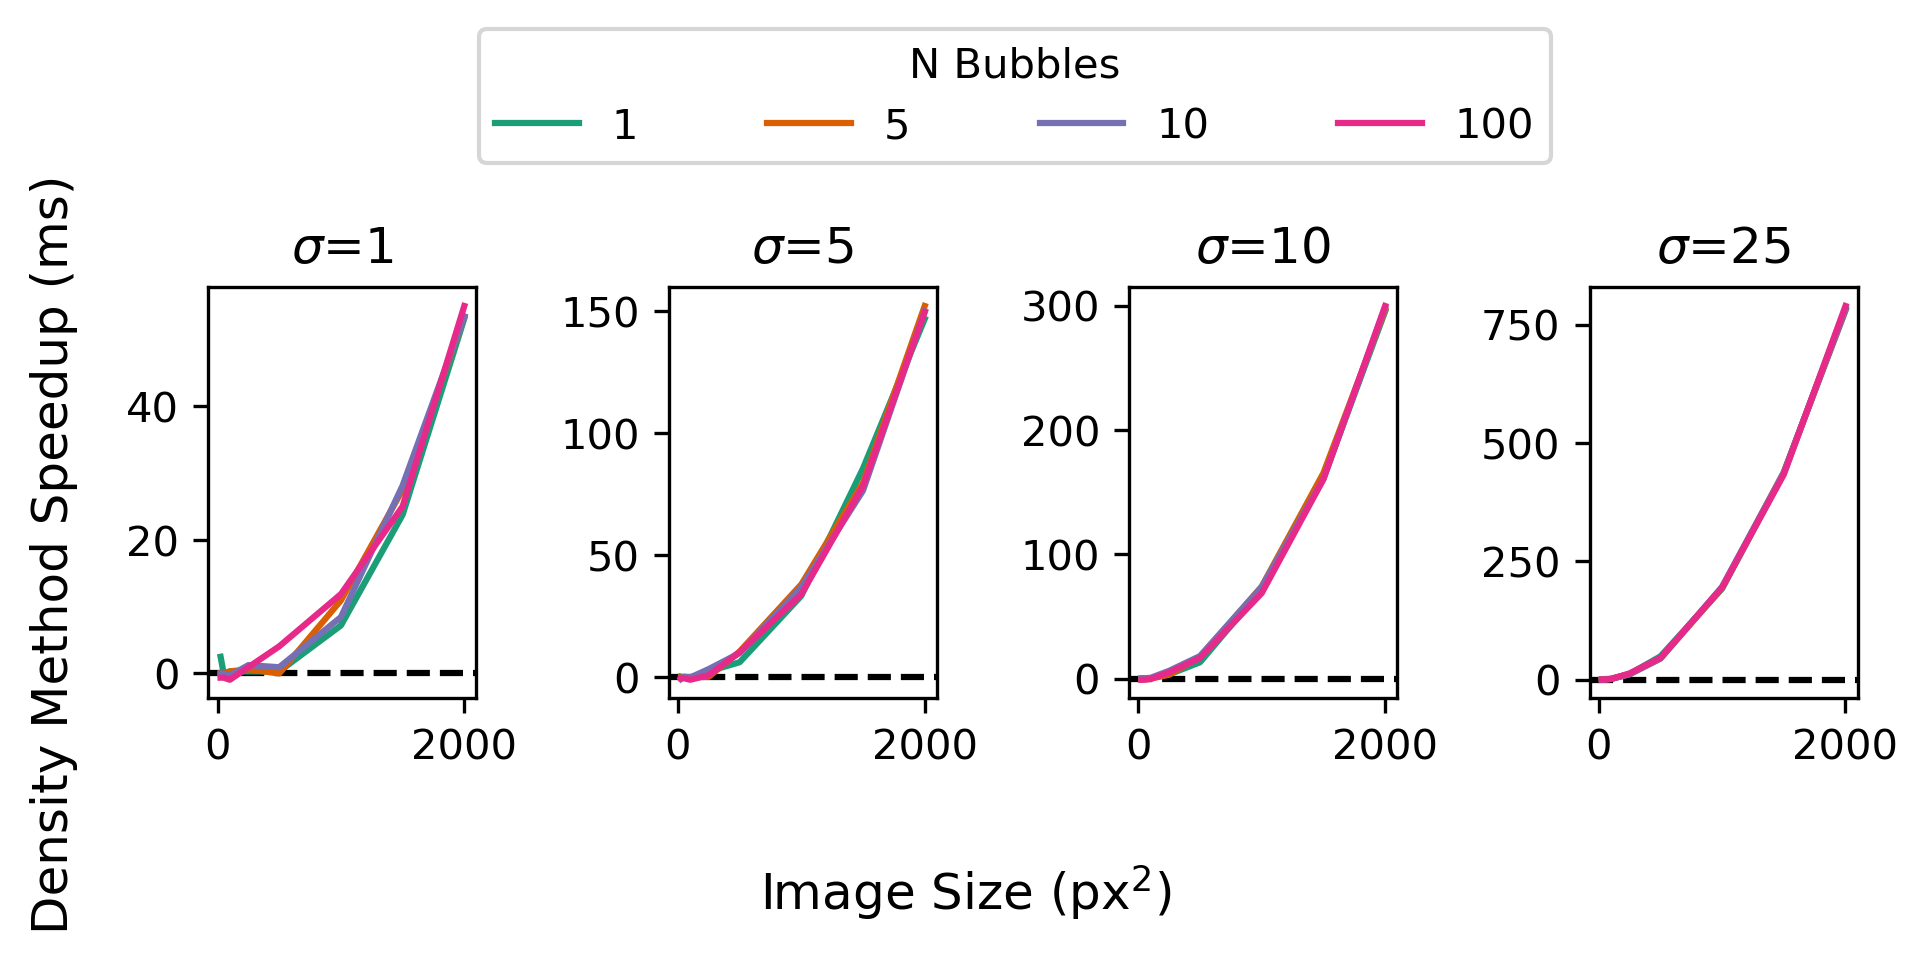
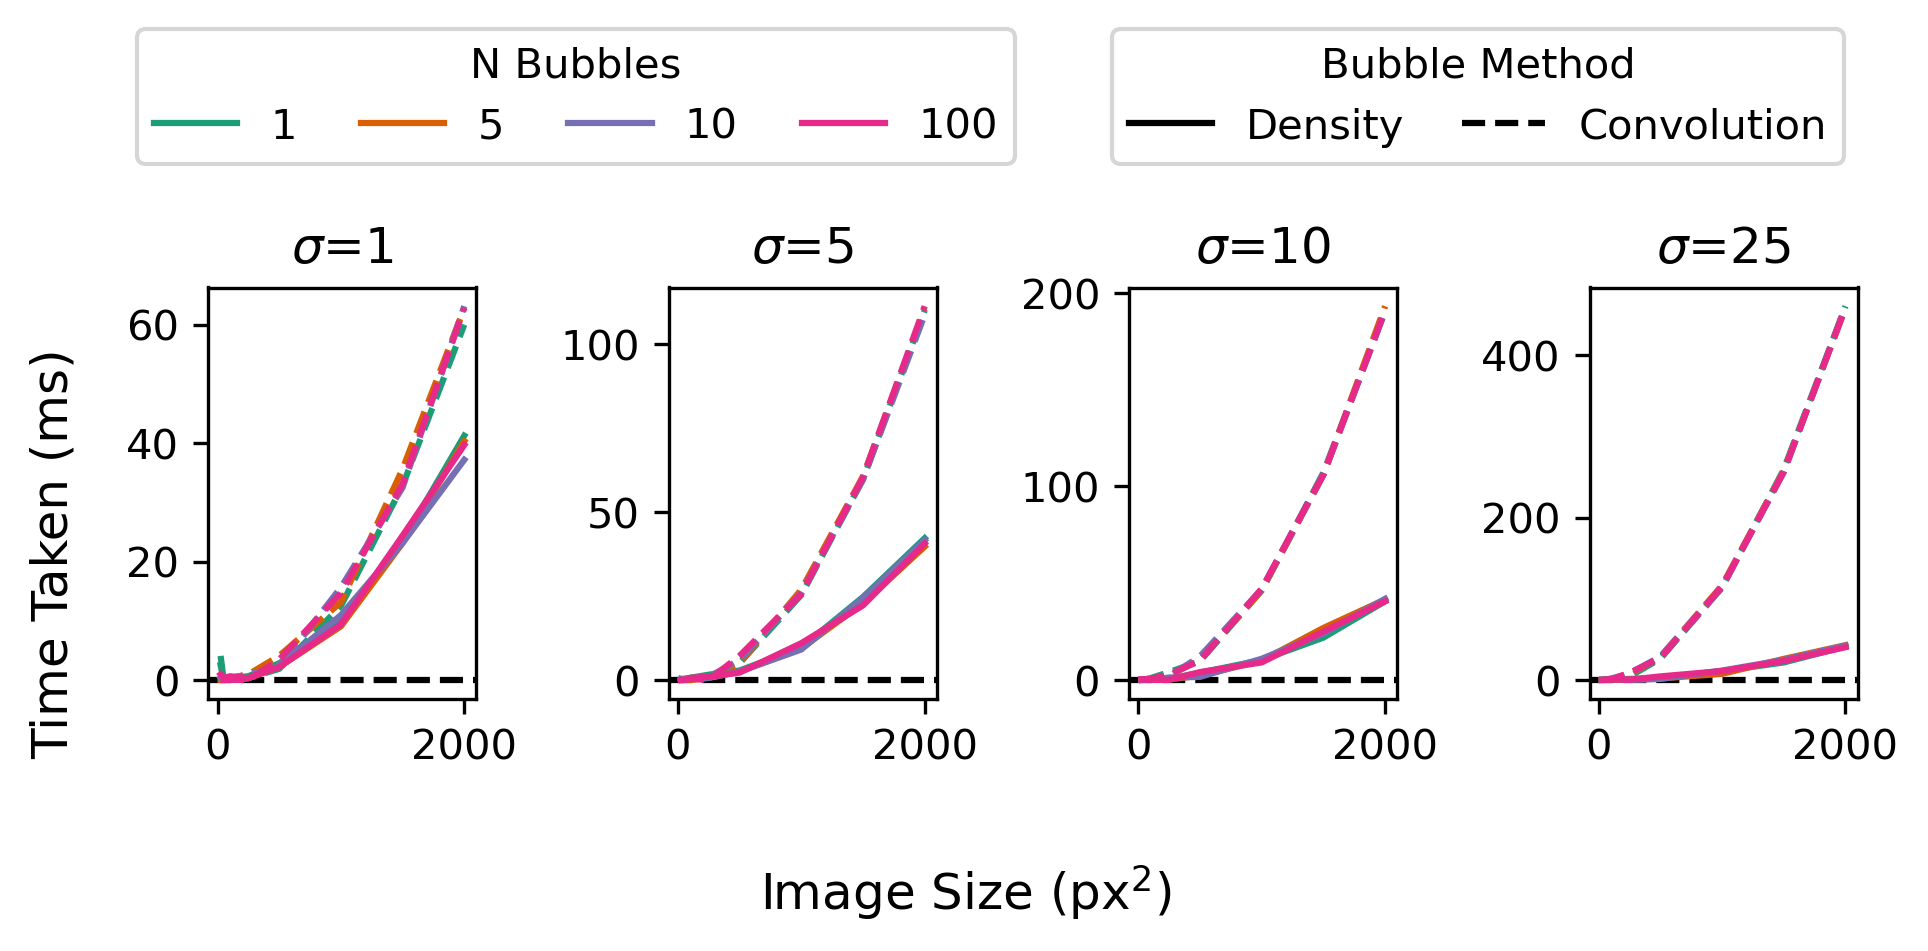
show both timings

diff --git a/examples.py b/examples.py
@@ -117,7 +117,8 @@ for i in range(4):
     plt.colorbar()
     fig.savefig(op.join(out_dir, f'mask{i+1}.png'), dpi=100, bbox_inches='tight')
 
-# %% Compare timing for convolution and outer product approaches
+# %%
+# Compare timing for convolution and outer product approaches
 
 n_iter = 50  # per combination of parameters
 
@@ -154,10 +155,8 @@ for i in trange(n_iter, desc='Timing approaches'):
                 op_e = time.process_time()
                 op_times[sz, nb, sg, i] = op_e - op_s
 
-# get difference
-diffs = conv_times - op_times
-
-# plot
+# %%
+# plot timing results
 fig, axs = plt.subplots(1, len(sigmas), figsize=(6.5, 2.5))
 
 cmap = mpl.colormaps.get_cmap('Dark2')
@@ -167,16 +166,20 @@ for sg, sigma in enumerate(sigmas):
     axs[sg].axhline(y=0, linestyle='--', color='k')
 
     for nb, n_bub in enumerate(n_bubbles):
-        axs[sg].plot(sizes, np.mean( diffs[:, nb, sg, :]*1000, axis=1 ), color=cmap(nb))
+        axs[sg].plot(sizes, np.mean( conv_times[:, nb, sg, :]*1000, axis=1 ), color=cmap(nb), linestyle='dashed')
+        axs[sg].plot(sizes, np.mean( op_times[:, nb, sg, :]*1000, axis=1 ), color=cmap(nb))
 
-# create legend
-lines = [mpl.lines.Line2D([0], [0], color=cmap(nb)) for nb in range(len(n_bubbles))]
+# create legends
+lines_col = [mpl.lines.Line2D([0], [0], color=cmap(nb)) for nb in range(len(n_bubbles))]
+lines_style = [mpl.lines.Line2D([0], [0], linestyle=st, color='k') for st in ['solid', 'dashed']]
 
 # axs[len(axs)-1].legend(lines, n_bubbles, title='N Bubbles', bbox_to_anchor=(1.05, 1), borderaxespad=0)
-fig.legend(lines, n_bubbles, title='N Bubbles', bbox_to_anchor=(0.25, 1.02, 0.55, 0.2), loc='lower left', mode='expand', borderaxespad=0, ncol=len(n_bubbles))
+fig.legend(lines_col, n_bubbles, title='N Bubbles', bbox_to_anchor=(0.075, 1.02, 0.45, 0.2), loc='lower left', mode='expand', borderaxespad=0, ncol=len(n_bubbles))
+
+fig.legend(lines_style, ['Density', 'Convolution'], title='Bubble Method', bbox_to_anchor=(0.575, 1.02, 0.375, 0.2), loc='lower left', mode='expand', borderaxespad=0, ncol=len(n_bubbles))
 
 fig.supxlabel('Image Size (px$^2$)')
-fig.supylabel('Density Method Speedup (ms)')
+fig.supylabel('Time Taken (ms)')
 
 fig.tight_layout()
 

diff --git a/README.md b/README.md
@@ -133,7 +133,7 @@ This means that with reasonable rounding of the masks, the approaches would be f
 The density approach of `bubblemask` is also slightly faster - especially for large images and high sigma values:
 
 ![](img/post/timing_comparison.png)
-*Time difference between the convolution and density methods, averaged over 50 iterations per combination of size, sigma, and N bubbles. Positive values mean the density method is faster.*
+*Time taken to make bubbles for the convolution and density methods, averaged over 50 iterations per combination of size, sigma, and N bubbles.*
 
 ## Naturalistic Images
 
